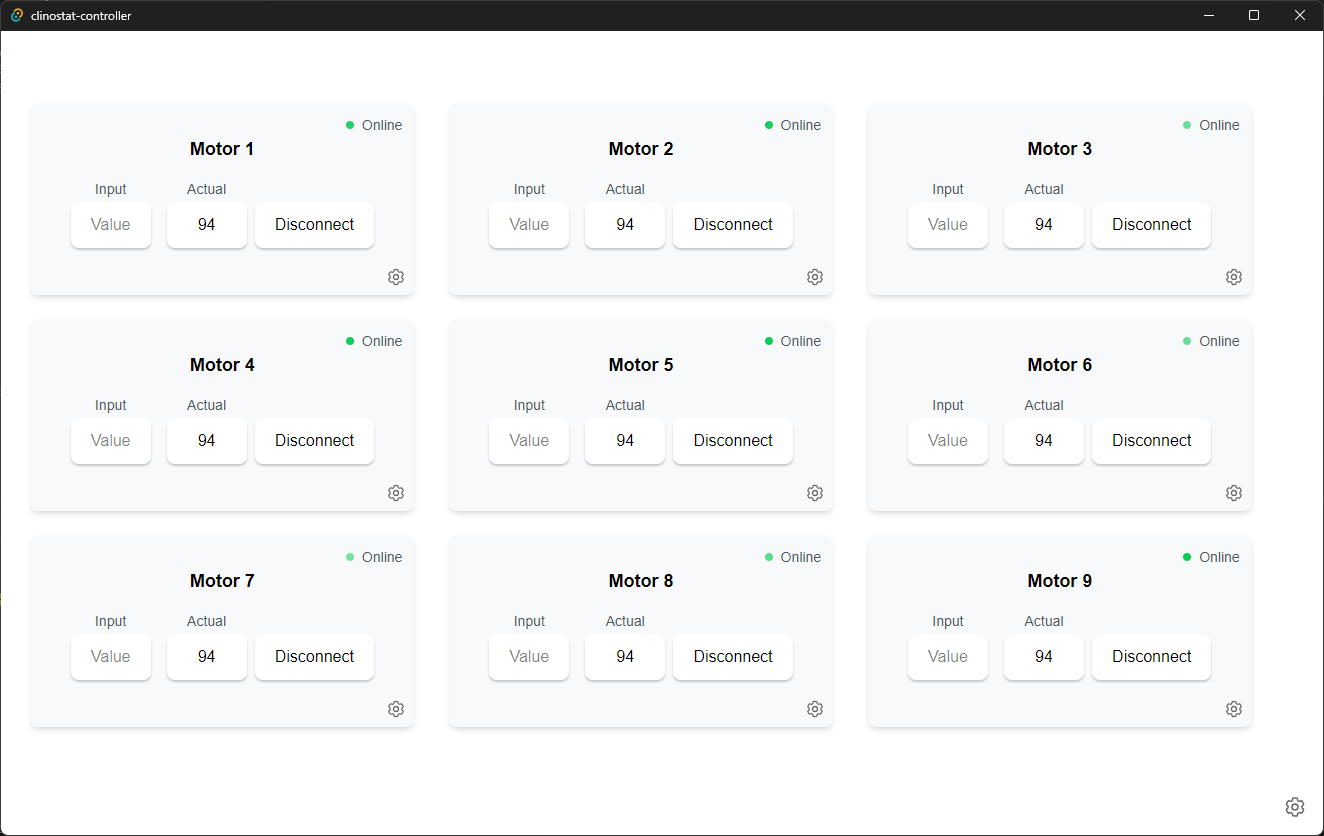
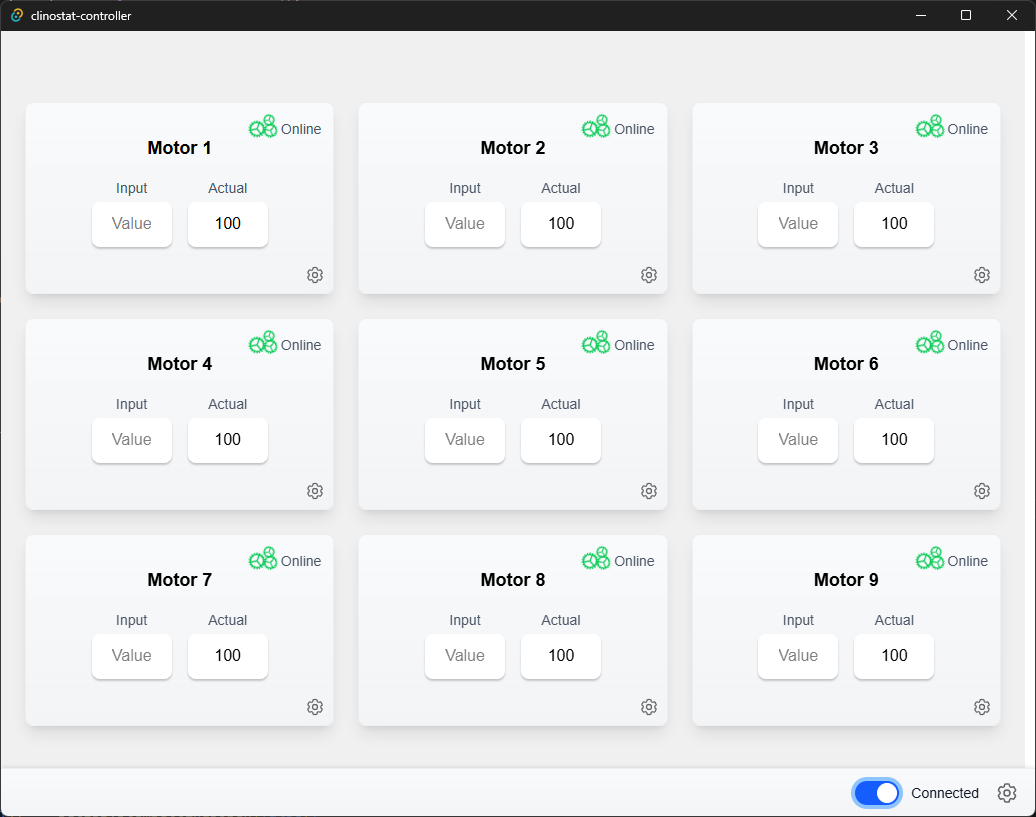
UI overhaul

diff --git a/src/components/UI.jsx b/src/components/UI.jsx
@@ -12,15 +12,52 @@ const MotorBox = ({ title = "Motor", isConnected = false, sensorValue = null }) 
     };
 
     return (
-        <div className="motor-box rounded-lg p-4 w-auto min-w-[20rem] h-48 flex flex-col items-center justify-center space-y-4 bg-gray-100/50 shadow-md relative">
-            {/* Status Indicator */}
-            <div className="absolute top-3 right-3 flex items-center gap-2 text-sm">
-                <span className={`h-2 w-2 rounded-full ${
-                    isConnected 
-                        ? 'bg-green-500 animate-pulse' 
-                        : 'bg-red-500'
-                }`}></span>
-                <span className="text-gray-600">
+        <div className="motor-box rounded-lg p-4 w-auto min-w-[20rem] h-48 flex flex-col items-center justify-center space-y-4 bg-gradient-to-b from-gray-50 to-gray-100/90 shadow-lg relative border border-gray-200/50">
+            {/* Status Indicator with Cog Assembly */}
+            <div className="absolute top-3 right-3 flex items-center gap-0 text-sm">
+                <div className="flex items-start scale-75 mr-1">
+                    <svg 
+                        xmlns="http://www.w3.org/2000/svg" 
+                        fill="none" 
+                        viewBox="0 0 24 24" 
+                        strokeWidth="1.5" 
+                        stroke="currentColor" 
+                        className={`w-7 h-7 ${isConnected ? '[animation:spin_1s_linear_infinite] text-green-500' : 'text-red-500'}`}
+                    >
+                        <path strokeLinecap="round" strokeLinejoin="round" d="M4.5 12a7.5 7.5 0 0 0 15 0m-15 0a7.5 7.5 0 1 1 15 0m-15 0H3m16.5 0H21m-1.5 0H12m-8.457 3.077 1.41-.513m14.095-5.13 1.41-.513M5.106 17.785l1.15-.964m11.49-9.642 1.149-.964M7.501 19.795l.75-1.3m7.5-12.99.75-1.3m-6.063 16.658.26-1.477m2.605-14.772.26-1.477m0 17.726-.26-1.477M10.698 4.614l-.26-1.477M16.5 19.794l-.75-1.299M7.5 4.205 12 12m6.894 5.785-1.149-.964M6.256 7.178l-1.15-.964m15.352 8.864-1.41-.513M4.954 9.435l-1.41-.514M12.002 12l-3.75 6.495" />
+                    </svg>
+                    <div className="relative">
+                        <svg 
+                            xmlns="http://www.w3.org/2000/svg" 
+                            fill="none" 
+                            viewBox="0 0 24 24" 
+                            strokeWidth="1.5" 
+                            stroke="currentColor" 
+                            className={`w-6 h-6 -ml-2 mt-1 ${isConnected ? '[animation:spin_1s_linear_infinite_reverse] text-green-500' : 'text-red-500'}`}
+                        >
+                            <path 
+                                strokeLinecap="round" 
+                                strokeLinejoin="round" 
+                                d="M4.5 12a7.5 7.5 0 0 0 15 0m-15 0a7.5 7.5 0 1 1 15 0m-15 0H3m16.5 0H21m-1.5 0H12m-8.457 3.077 1.41-.513m14.095-5.13 1.41-.513M5.106 17.785l1.15-.964m11.49-9.642 1.149-.964M7.501 19.795l.75-1.3m7.5-12.99.75-1.3m-6.063 16.658.26-1.477m2.605-14.772.26-1.477m0 17.726-.26-1.477M10.698 4.614l-.26-1.477M16.5 19.794l-.75-1.299M7.5 4.205 12 12m6.894 5.785-1.149-.964M6.256 7.178l-1.15-.964m15.352 8.864-1.41-.513M4.954 9.435l-1.41-.514M12.002 12l-3.75 6.495" 
+                            />
+                        </svg>
+                        <svg 
+                            xmlns="http://www.w3.org/2000/svg" 
+                            fill="none" 
+                            viewBox="0 0 24 24" 
+                            strokeWidth="1.5" 
+                            stroke="currentColor" 
+                            className={`w-5 h-5 absolute -top-2 -left-2 ${isConnected ? '[animation:spin_1s_linear_infinite] text-green-500' : 'text-red-500'}`}
+                        >
+                            <path 
+                                strokeLinecap="round" 
+                                strokeLinejoin="round" 
+                                d="M4.5 12a7.5 7.5 0 0 0 15 0m-15 0a7.5 7.5 0 1 1 15 0m-15 0H3m16.5 0H21m-1.5 0H12m-8.457 3.077 1.41-.513m14.095-5.13 1.41-.513M5.106 17.785l1.15-.964m11.49-9.642 1.149-.964M7.501 19.795l.75-1.3m7.5-12.99.75-1.3m-6.063 16.658.26-1.477m2.605-14.772.26-1.477m0 17.726-.26-1.477M10.698 4.614l-.26-1.477M16.5 19.794l-.75-1.299M7.5 4.205 12 12m6.894 5.785-1.149-.964M6.256 7.178l-1.15-.964m15.352 8.864-1.41-.513M4.954 9.435l-1.41-.514M12.002 12l-3.75 6.495" 
+                            />
+                        </svg>
+                    </div>
+                </div>
+                <span className="text-gray-600 -ml-2">
                     {isConnected ? 'Online' : 'Offline'}
                 </span>
             </div>
@@ -40,7 +77,7 @@ const MotorBox = ({ title = "Motor", isConnected = false, sensorValue = null }) 
                     <input 
                         type="text" 
                         className="border rounded px-1 py-1 text-center w-20"
-                        value={sensorValue !== null ? sensorValue : "No data"}
+                        value={sensorValue !== null ? sensorValue : "-"}
                         readOnly
                     />
                 </div>
@@ -52,7 +89,8 @@ const MotorBox = ({ title = "Motor", isConnected = false, sensorValue = null }) 
                 viewBox="0 0 24 24" 
                 strokeWidth="1.5" 
                 stroke="currentColor" 
-                className="w-5 h-5 absolute bottom-2 right-2 cursor-pointer opacity-60 hover:opacity-100 transition-all duration-300 hover:rotate-90"
+                className="w-5 h-5 fixed-position cursor-pointer opacity-60 hover:opacity-100 transition-transform duration-300 hover:rotate-90"
+                style={{ position: 'absolute', bottom: '8px', right: '8px' }}
             >
                 <path strokeLinecap="round" strokeLinejoin="round" d="M9.594 3.94c.09-.542.56-.94 1.11-.94h2.593c.55 0 1.02.398 1.11.94l.213 1.281c.063.374.313.686.645.87.074.04.147.083.22.127.325.196.72.257 1.075.124l1.217-.456a1.125 1.125 0 0 1 1.37.49l1.296 2.247a1.125 1.125 0 0 1-.26 1.431l-1.003.827c-.293.241-.438.613-.43.992a7.723 7.723 0 0 1 0 .255c-.008.378.137.75.43.991l1.004.827c.424.35.534.955.26 1.43l-1.298 2.247a1.125 1.125 0 0 1-1.369.491l-1.217-.456c-.355-.133-.75-.072-1.076.124a6.47 6.47 0 0 1-.22.128c-.331.183-.581.495-.644.869l-.213 1.281c-.09.543-.56.94-1.11.94h-2.594c-.55 0-1.019-.398-1.11-.94l-.213-1.281c-.062-.374-.312-.686-.644-.87a6.52 6.52 0 0 1-.22-.127c-.325-.196-.72-.257-1.076-.124l-1.217.456a1.125 1.125 0 0 1-1.369-.49l-1.297-2.247a1.125 1.125 0 0 1 .26-1.431l1.004-.827c.292-.24.437-.613.43-.991a6.932 6.932 0 0 1 0-.255c.007-.38-.138-.751-.43-.992l-1.004-.827a1.125 1.125 0 0 1-.26-1.43l1.297-2.247a1.125 1.125 0 0 1 1.37-.491l1.216.456c.356.133.751.072 1.076-.124.072-.044.146-.086.22-.128.332-.183.582-.495.644-.869l.214-1.28Z" />
                 <path strokeLinecap="round" strokeLinejoin="round" d="M15 12a3 3 0 1 1-6 0 3 3 0 0 1 6 0Z" />

diff --git a/src/App.jsx b/src/App.jsx
@@ -1,7 +1,9 @@
-import { useState } from "react";
+import { useState, useEffect } from "react";
 import { MotorBox } from "./components/UI";
 import { SystemSettings } from "./components/Settings";
 import { useSensorStream } from './components/BackendCalls';
+import { NavBar } from './components/NavBar';
+import wallpaper from '/wallpaper.svg';  // Update path to match your project structure
 import "./App.css";
 
 function App() {
@@ -21,10 +23,15 @@ function App() {
   };
 
   return (
-    <div className="container">
+    <div 
+      className="container min-h-screen w-full bg-cover bg-center bg-no-repeat relative z-0" 
+      style={{ 
+        backgroundImage: `url(${wallpaper})`,
+        backgroundColor: '#f0f0f0' // Fallback color
+      }}
+    >
       <div className="grid-container">
         <div className="mt-8 grid grid-cols-1 md:grid-cols-2 lg:grid-cols-3 gap-6 place-items-center px-6 pb-20">
-          {/* Pass connection status and sensor value to each MotorBox */}
           {Array.from({ length: 9 }, (_, i) => (
             <MotorBox 
               key={i} 
@@ -36,47 +43,15 @@ function App() {
         </div>
       </div>
 
-      {/* Controls container */}
-      <div className="fixed bottom-4 right-4 flex items-center gap-4">
-        {/* Error display */}
-        {error && (
-          <div className="text-red-500 text-sm">
-            Error: {error.toString()}
-          </div>
-        )}
-        
-        {/* Connection Switch */}
-        <label className="relative inline-flex items-center cursor-pointer">
-          <input
-            type="checkbox"
-            className="sr-only peer"
-            checked={isStreaming}
-            onChange={handleConnectionToggle}
-          />
-          <div className="w-11 h-6 bg-gray-200 peer-focus:outline-none peer-focus:ring-4 peer-focus:ring-blue-300 rounded-full peer peer-checked:after:translate-x-full peer-checked:after:border-white after:content-[''] after:absolute after:top-[2px] after:left-[2px] after:bg-white after:border-gray-300 after:border after:rounded-full after:h-5 after:w-5 after:transition-all peer-checked:bg-blue-600"></div>
-          <span className="ml-3 text-sm font-medium text-gray-900">
-            {isStreaming ? 'Connected' : 'Disconnected'}
-          </span>
-        </label>
-
-        {/* Settings Icon */}
-        <svg 
-          onClick={() => setIsSystemSettingsOpen(true)}
-          xmlns="http://www.w3.org/2000/svg" 
-          fill="none" 
-          viewBox="0 0 24 24" 
-          strokeWidth="1.5" 
-          stroke="currentColor" 
-          className="w-6 h-6 cursor-pointer opacity-60 hover:opacity-100 transition-all duration-300 hover:rotate-90"
-        >
-          <path strokeLinecap="round" strokeLinejoin="round" d="M9.594 3.94c.09-.542.56-.94 1.11-.94h2.593c.55 0 1.02.398 1.11.94l.213 1.281c.063.374.313.686.645.87.074.04.147.083.22.127.325.196.72.257 1.075.124l1.217-.456a1.125 1.125 0 0 1 1.37.49l1.296 2.247a1.125 1.125 0 0 1-.26 1.431l-1.003.827c-.293.241-.438.613-.43.992a7.723 7.723 0 0 1 0 .255c-.008.378.137.75.43.991l1.004.827c.424.35.534.955.26 1.43l-1.298 2.247a1.125 1.125 0 0 1-1.369.491l-1.217-.456c-.355-.133-.75-.072-1.076.124a6.47 6.47 0 0 1-.22.128c-.331.183-.581.495-.644.869l-.213 1.281c-.09.543-.56.94-1.11.94h-2.594c-.55 0-1.019-.398-1.11-.94l-.213-1.281c-.062-.374-.312-.686-.644-.87a6.52 6.52 0 0 1-.22-.127c-.325-.196-.72-.257-1.076-.124l-1.217.456a1.125 1.125 0 0 1-1.369-.49l-1.297-2.247a1.125 1.125 0 0 1 .26-1.431l1.004-.827c.292-.24.437-.613.43-.991a6.932 6.932 0 0 1 0-.255c.007-.38-.138-.751-.43-.992l-1.004-.827a1.125 1.125 0 0 1-.26-1.43l1.297-2.247a1.125 1.125 0 0 1 1.37-.491l1.216.456c.356.133.751.072 1.076-.124.072-.044.146-.086.22-.128.332-.183.582-.495.644-.869l.214-1.28Z" />
-          <path strokeLinecap="round" strokeLinejoin="round" d="M15 12a3 3 0 1 1-6 0 3 3 0 0 1 6 0Z" />
-        </svg>
-      </div>
+      <NavBar 
+        error={error}
+        isStreaming={isStreaming}
+        onConnectionToggle={handleConnectionToggle}
+        onOpenSettings={() => setIsSystemSettingsOpen(true)}
+      />
 
       <SystemSettings 
-        isOpen={isSystemSettingsOpen}
-        onClose={() => setIsSystemSettingsOpen(false)}
+        isOpen={isSystemSettingsOpen}        onClose={() => setIsSystemSettingsOpen(false)}
       />
     </div>
   );

diff --git a/src/components/NavBar.jsx b/src/components/NavBar.jsx
@@ -1,0 +1,49 @@
+import React from 'react';
+
+export const NavBar = ({ error, isStreaming, onConnectionToggle, onOpenSettings }) => {
+    return (
+        <div className="fixed bottom-0 left-0 right-0 h-12 bg-gradient-to-t from-gray-100 to-gray-50 shadow-[0_-2px_4px_-1px_rgba(0,0,0,0.1)] border-t border-gray-200/50 z-50">
+            <div className="h-full px-4 flex items-center justify-between">
+                {/* Error Messages */}
+                <div className="flex-1 truncate">
+                    {error && (
+                        <div className="text-red-500 text-sm truncate">
+                            Error: {error.toString()}
+                        </div>
+                    )}
+                </div>
+
+                {/* Controls */}
+                <div className="flex items-center gap-4 shrink-0">
+                    {/* Connection Switch */}
+                    <label className="relative inline-flex items-center cursor-pointer">
+                        <input
+                            type="checkbox"
+                            className="sr-only peer"
+                            checked={isStreaming}
+                            onChange={onConnectionToggle}
+                        />
+                        <div className="w-11 h-6 bg-gray-200 peer-focus:outline-none peer-focus:ring-4 peer-focus:ring-blue-300 rounded-full peer peer-checked:after:translate-x-full peer-checked:after:border-white after:content-[''] after:absolute after:top-[2px] after:left-[2px] after:bg-white after:border-gray-300 after:border after:rounded-full after:h-5 after:w-5 after:transition-all peer-checked:bg-blue-600"></div>
+                        <span className="ml-3 text-sm font-medium text-gray-900">
+                            {isStreaming ? 'Connected' : 'Disconnected'}
+                        </span>
+                    </label>
+
+                    {/* Settings Icon */}
+                    <svg 
+                        onClick={onOpenSettings}
+                        xmlns="http://www.w3.org/2000/svg" 
+                        fill="none" 
+                        viewBox="0 0 24 24" 
+                        strokeWidth="1.5" 
+                        stroke="currentColor" 
+                        className="w-6 h-6 cursor-pointer opacity-60 hover:opacity-100 transition-transform duration-300 hover:rotate-90"
+                    >
+                        <path strokeLinecap="round" strokeLinejoin="round" d="M9.594 3.94c.09-.542.56-.94 1.11-.94h2.593c.55 0 1.02.398 1.11.94l.213 1.281c.063.374.313.686.645.87.074.04.147.083.22.127.325.196.72.257 1.075.124l1.217-.456a1.125 1.125 0 0 1 1.37.49l1.296 2.247a1.125 1.125 0 0 1-.26 1.431l-1.003.827c-.293.241-.438.613-.43.992a7.723 7.723 0 0 1 0 .255c-.008.378.137.75.43.991l1.004.827c.424.35.534.955.26 1.43l-1.298 2.247a1.125 1.125 0 0 1-1.369.491l-1.217-.456c-.355-.133-.75-.072-1.076.124a6.47 6.47 0 0 1-.22.128c-.331.183-.581.495-.644.869l-.213 1.281c-.09.543-.56.94-1.11.94h-2.594c-.55 0-1.019-.398-1.11-.94l-.213-1.281c-.062-.374-.312-.686-.644-.87a6.52 6.52 0 0 1-.22-.127c-.325-.196-.72-.257-1.076-.124l-1.217.456a1.125 1.125 0 0 1-1.369-.49l-1.297-2.247a1.125 1.125 0 0 1 .26-1.431l1.004-.827c.292-.24.437-.613.43-.991a6.932 6.932 0 0 1 0-.255c.007-.38-.138-.751-.43-.992l-1.004-.827a1.125 1.125 0 0 1-.26-1.43l1.297-2.247a1.125 1.125 0 0 1 1.37-.491l1.216.456c.356.133.751.072 1.076-.124.072-.044.146-.086.22-.128.332-.183.582-.495.644-.869l.214-1.28Z" />
+                        <path strokeLinecap="round" strokeLinejoin="round" d="M15 12a3 3 0 1 1-6 0 3 3 0 0 1 6 0Z" />
+                    </svg>
+                </div>
+            </div>
+        </div>
+    );
+};

diff --git a/src/index.css b/src/index.css
@@ -1,0 +1,12 @@
+@keyframes spin-reverse {
+    from {
+        transform: rotate(0deg);
+    }
+    to {
+        transform: rotate(-360deg);
+    }
+}
+
+.animate-spin-reverse {
+    animation: spin-reverse 1s linear infinite;
+}
